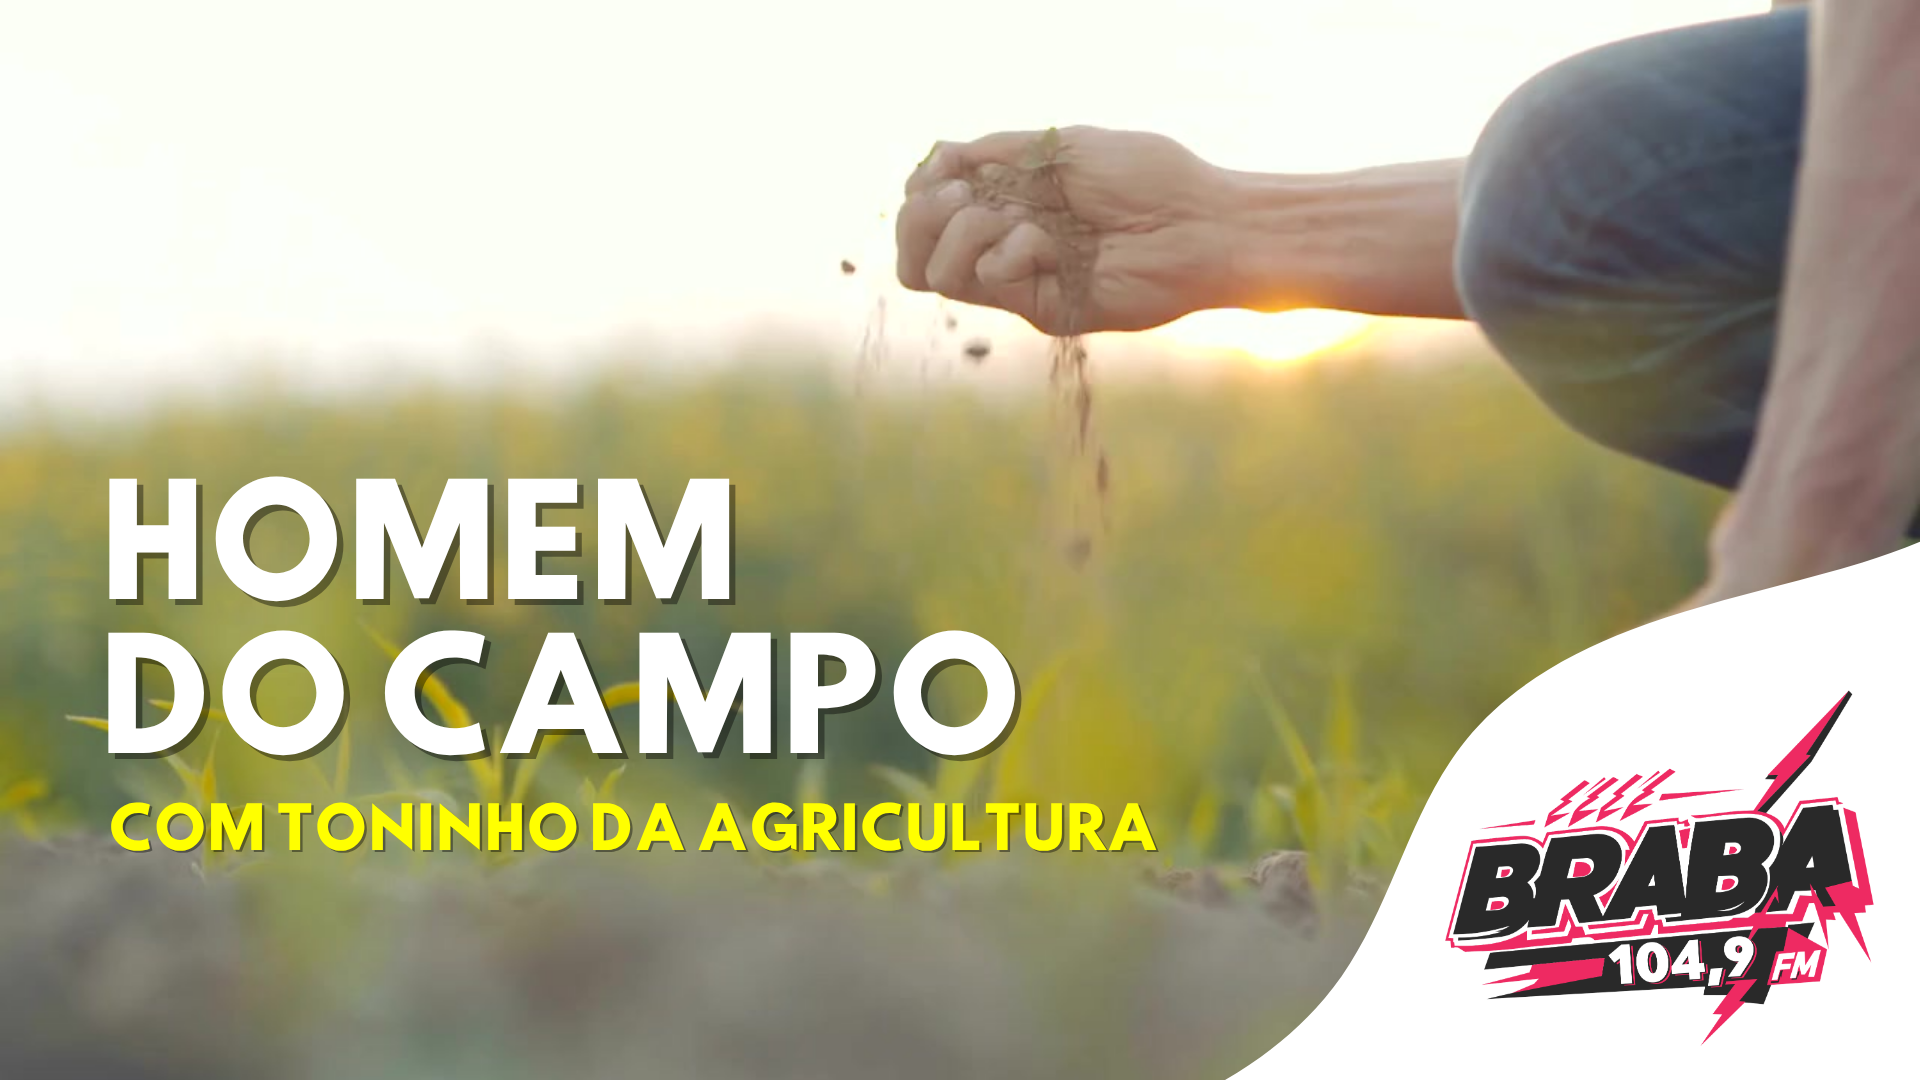
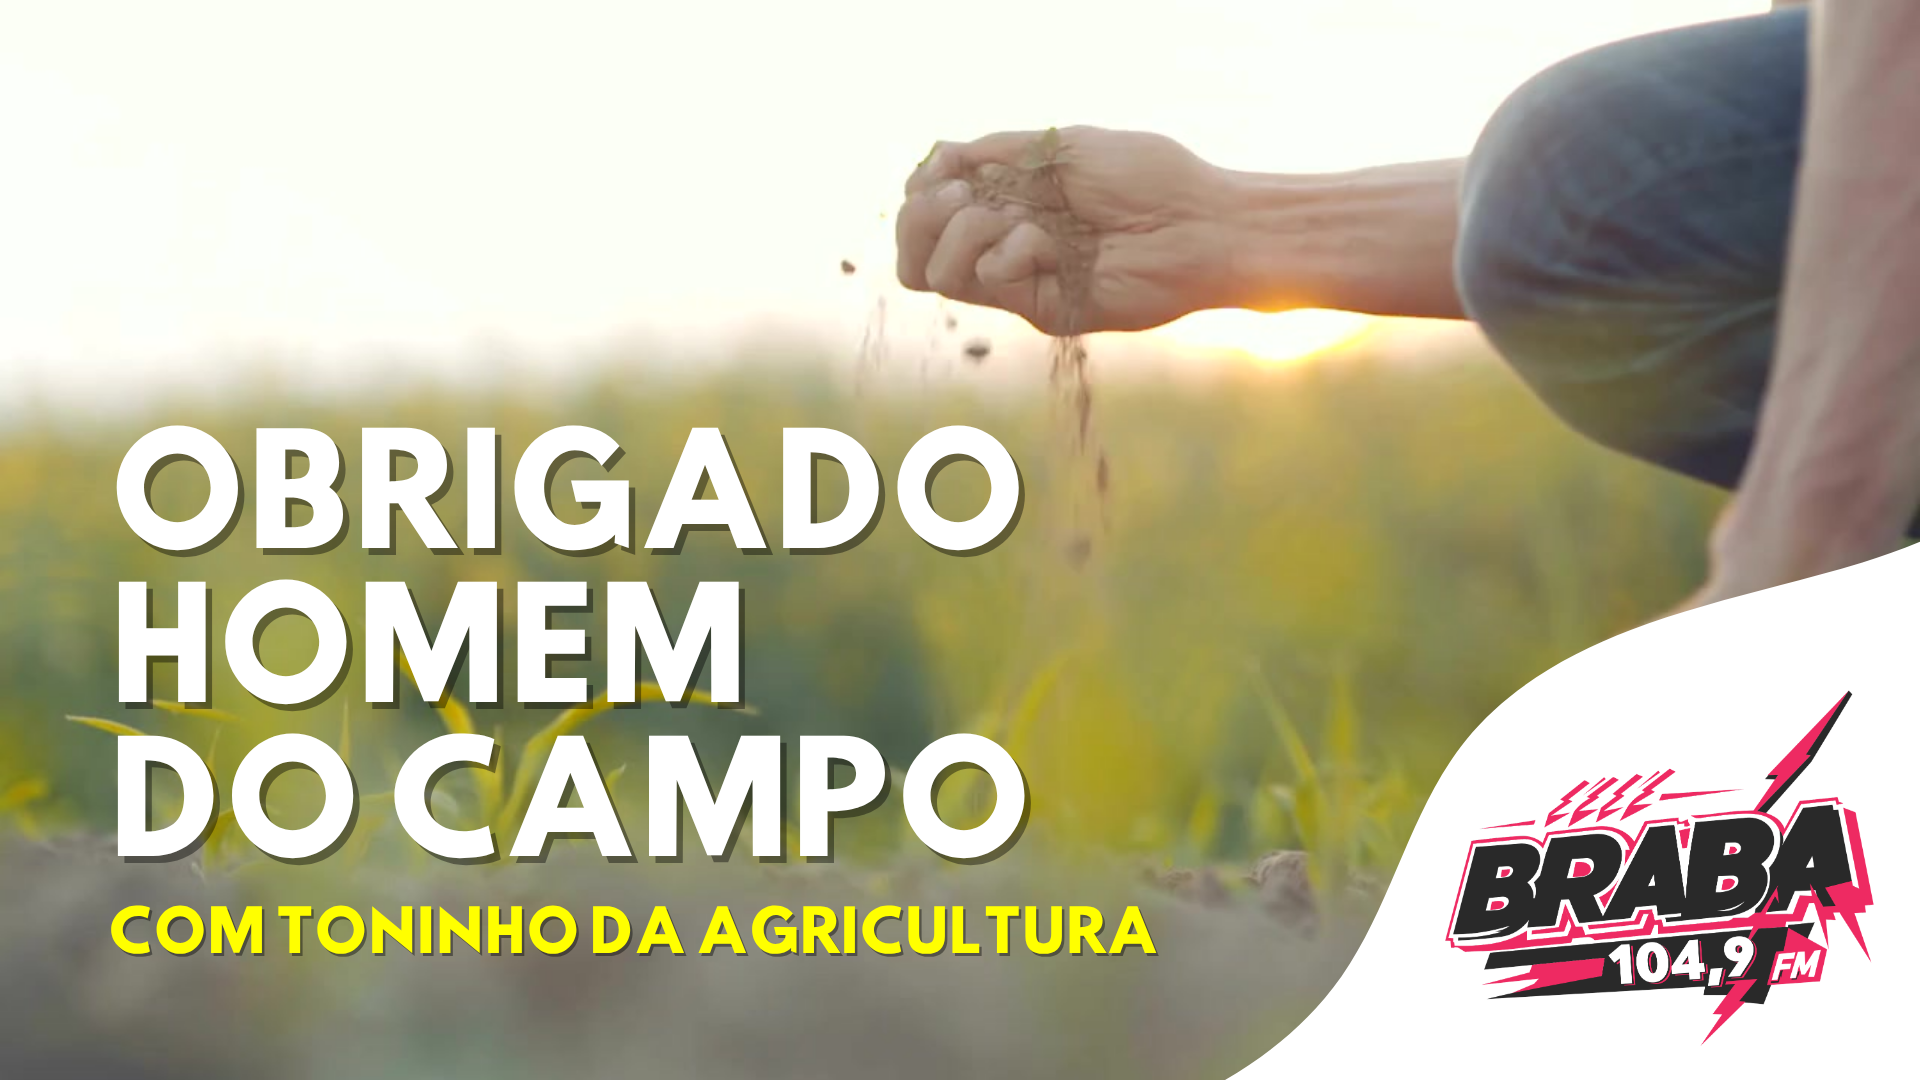
fix: refatore footer and add new infos

Changed region(s): [[0.0312, 0.3972, 0.625, 0.8861]]

diff --git a/src/pages/ContactPage.tsx b/src/pages/ContactPage.tsx
@@ -6,8 +6,8 @@ import { Button } from "@/components/ui/button";
 import { Form, FormControl, FormDescription, FormField, FormItem, FormLabel, FormMessage } from "@/components/ui/form";
 import { Input } from "@/components/ui/input";
 import { Textarea } from "@/components/ui/textarea";
-import { toast } from "@/hooks/use-toast"; 
-import { ContactFormData } from "@/lib/types"; 
+import { toast } from "@/hooks/use-toast";
+import { ContactFormData } from "@/lib/types";
 import {  Send, User, Mail, Phone, MessageSquare, MapPin, Clock, Radio, ChevronRight, Users, Heart, Building } from "lucide-react";
 
 // Esquema de validação do formulário com Zod
@@ -81,7 +81,7 @@ export function ContactPage() {
       icon: <Phone size={24} />,
       title: 'Telefone',
       description: 'Ligue diretamente para nossa central',
-      value: '(11) 3333-3333',
+      value: '(15) 3191-2855',
       action: 'Fazer ligação',
       color: 'bg-blue-500' 
     },
@@ -132,7 +132,7 @@ export function ContactPage() {
     {
       id: 4,
       question: 'Qual o horário de funcionamento da rádio?',
-      answer: 'Nossa programação é 24h, mas o atendimento presencial é de segunda a sexta das 8h às 18h, e sábados das 9h às 13h.'
+      answer: 'Nossa programação é 24h, mas o atendimento presencial é de segunda a sexta das 8h às 18h.'
     }
   ];
 
@@ -179,8 +179,8 @@ export function ContactPage() {
             <div className="bg-card rounded-xl shadow-lg p-6 md:p-8 hover:shadow-2xl transition-shadow duration-300">
               <div className="flex flex-col sm:flex-row items-start sm:items-center mb-6">
                 <div className="flex items-center mb-2 sm:mb-0">
-                    <MessageSquare size={24} className="text-[#F63A9C] mr-2" />
-                    <h3 className="text-xl sm:text-2xl font-bold text-gray-800 dark:text-white">Formulário de Contato</h3>
+                  <MessageSquare size={24} className="text-[#F63A9C] mr-2" />
+                  <h3 className="text-xl sm:text-2xl font-bold text-gray-800 dark:text-white">Formulário de Contato</h3>
                 </div>
                 <span className="ml-0 sm:ml-3 text-xs sm:text-sm bg-[#F63A9C] text-white px-2 py-1 rounded">
                   RESPOSTA EM 24H
@@ -210,7 +210,7 @@ export function ContactPage() {
                     )}
                   />
 
-                  <div className="grid grid-cols-1 md:grid-cols-2 gap-4 md:gap-6"> 
+                  <div className="grid grid-cols-1 md:grid-cols-2 gap-4 md:gap-6">
                     <FormField
                       control={form.control}
                       name="email"
@@ -320,11 +320,11 @@ export function ContactPage() {
                   <Building size={20} className="text-[#F63A9C] mr-3 mt-1" />
                   <div>
                     <h4 className="font-medium text-gray-800 dark:text-white text-base">Endereço</h4>
-                    <p className="text-gray-600 dark:text-gray-300 text-sm">Rua do Cruzeiro, 70<br />Centro - Capela do Alto, SP<br />CEP: 18195-078</p>
+                    <p className="text-gray-600 dark:text-gray-300 text-sm">Rua São Francisco, 7<br />Centro - Capela do Alto, SP<br />CEP: 18195-078</p>
                   </div>
                 </div>
                 {/* Rubens, ajuste o src do iframe do mapa aqui! */}
-                <div className="relative overflow-hidden w-full h-48 sm:h-64 rounded-lg"> 
+                <div className="relative overflow-hidden w-full h-48 sm:h-64 rounded-lg">
                   <iframe
                     title="Mapa interativo"
                     width="100%"
@@ -332,7 +332,7 @@ export function ContactPage() {
                     style={{ border: 0 }}
                     loading="lazy"
                     allowFullScreen
-                    src="https://www.google.com/maps/embed?pb=!1m18!1m12!1m3!1d3658.0773600000003!2d-47.88607102439002!3d-23.528405059695843!2m3!1f0!2f0!3f0!3m2!1i1024!2i768!4f13.1!3m3!1m2!1s0x94cf54805e5d36e7%3A0x6b4c10398b1e4f40!2sR.%20do%20Cruzeiro%2C%2070%20-%20Centro%2C%20Capela%20do%20Alto%20-%20SP%2C%2018195-000!5e0!3m2!1spt-BR!2sbr!4v1719438012345!5m2!1spt-BR!2sbr"
+                    src="https://www.google.com/maps/embed?pb=!1m18!1m12!1m3!1d3658.0773600000003!2d-47.88607102439002!3d-23.528405059695843!2m3!1f0!2f0!3f0!3m2!1i1024!2i768!4f13.1!3m3!1m2!1s0x94cf54805e5d36e7%3A0x6b4c10398b1e4f40!2sR.%20Sao%20Francisco%2C%207%20-%20Centro%2C%20Capela%20do%20Alto%20-%20SP%2C%2018195-000!5e0!3m2!1spt-BR!2sbr!4v1719438012345!5m2!1spt-BR!2sbr"
                   ></iframe>
                 </div>
               </div>
@@ -391,73 +391,73 @@ export function ContactPage() {
                 </Button>
               </div>
             ))}
-          </div>
         </div>
+    </div>
       </section>
 
       {/* FAQ Section */}
       <section className="py-12 md:py-16 bg-background transition-colors duration-500">
-        <div className="container mx-auto px-4">
-          <div className="text-center mb-8 md:mb-10">
-            <h2 className="text-2xl sm:text-3xl md:text-4xl font-bold mb-2 text-gray-800 dark:text-white">DÚVIDAS FREQUENTES</h2>
-            <p className="text-base sm:text-xl text-gray-600 dark:text-gray-400">Respostas para as perguntas mais comuns</p>
-          </div>
-
-          <div className="max-w-3xl mx-auto">
-            {faqs.map((faq) => (
-              <div
-                key={faq.id}
-                className="bg-card rounded-lg shadow-md mb-4 overflow-hidden hover:shadow-lg transition-shadow duration-300 border border-gray-100 dark:border-gray-700"
-              >
-                <button
-                  className="w-full p-4 sm:p-6 text-left flex items-center justify-between hover:bg-gray-50 dark:hover:bg-gray-700 transition-colors duration-200 text-gray-800 dark:text-white"
-                  onClick={() => setExpandedFAQ(expandedFAQ === faq.id ? null : faq.id)}
-                >
-                  <h3 className="font-bold text-base sm:text-lg">{faq.question}</h3>
-                  <ChevronRight
-                    size={20}
-                    className={`text-[#F63A9C] transform transition-transform duration-200 ${expandedFAQ === faq.id ? 'rotate-90' : ''}`}
-                  />
-                </button>
-
-                {expandedFAQ === faq.id && (
-                  <div className="px-4 pb-4 sm:px-6 sm:pb-6">
-                    <p className="text-gray-700 dark:text-gray-300 text-sm sm:text-base">{faq.answer}</p>
-                  </div>
-                )}
-              </div>
-            ))}
-          </div>
+      <div className="container mx-auto px-4">
+        <div className="text-center mb-8 md:mb-10">
+          <h2 className="text-2xl sm:text-3xl md:text-4xl font-bold mb-2 text-gray-800 dark:text-white">DÚVIDAS FREQUENTES</h2>
+          <p className="text-base sm:text-xl text-gray-600 dark:text-gray-400">Respostas para as perguntas mais comuns</p>
         </div>
+
+        <div className="max-w-3xl mx-auto">
+          {faqs.map((faq) => (
+            <div
+              key={faq.id}
+              className="bg-card rounded-lg shadow-md mb-4 overflow-hidden hover:shadow-lg transition-shadow duration-300 border border-gray-100 dark:border-gray-700"
+            >
+              <button
+                className="w-full p-4 sm:p-6 text-left flex items-center justify-between hover:bg-gray-50 dark:hover:bg-gray-700 transition-colors duration-200 text-gray-800 dark:text-white"
+                onClick={() => setExpandedFAQ(expandedFAQ === faq.id ? null : faq.id)}
+              >
+                <h3 className="font-bold text-base sm:text-lg">{faq.question}</h3>
+                <ChevronRight
+                  size={20}
+                  className={`text-[#F63A9C] transform transition-transform duration-200 ${expandedFAQ === faq.id ? 'rotate-90' : ''}`}
+                />
+              </button>
+
+              {expandedFAQ === faq.id && (
+                <div className="px-4 pb-4 sm:px-6 sm:pb-6">
+                  <p className="text-gray-700 dark:text-gray-300 text-sm sm:text-base">{faq.answer}</p>
+                </div>
+              )}
+            </div>
+          ))}
+        </div>
+      </div>
       </section>
 
       {/* Final CTA */}
       <section className="py-12 md:py-16 bg-gradient-to-br from-[#F63A9C] to-[#FF2C69] text-white">
-        <div className="container mx-auto px-4 text-center">
-          <h2 className="text-2xl sm:text-3xl md:text-4xl font-bold mb-4">AINDA TEM DÚVIDAS?</h2>
-          <p className="text-base sm:text-xl mb-6 md:mb-8">Nossa equipe está sempre pronta para ajudar você!</p>
+      <div className="container mx-auto px-4 text-center">
+        <h2 className="text-2xl sm:text-3xl md:text-4xl font-bold mb-4">AINDA TEM DÚVIDAS?</h2>
+        <p className="text-base sm:text-xl mb-6 md:mb-8">Nossa equipe está sempre pronta para ajudar você!</p>
 
-          <div className="flex flex-col sm:flex-row items-center justify-center gap-3 sm:gap-4">
-            <a
-              href="https://wa.me/551531912855"
-              target="_blank"
-              rel="noopener noreferrer"
-              className="flex items-center bg-white text-[#F63A9C] px-5 py-2 sm:px-6 sm:py-3 rounded-lg font-bold hover:bg-gray-100 transition-colors duration-200 text-sm sm:text-base"
-            >
-              <Phone size={18} className="mr-2" />
-              Falar no WhatsApp
-            </a>
+        <div className="flex flex-col sm:flex-row items-center justify-center gap-3 sm:gap-4">
+          <a
+            href="https://wa.me/551531912855"
+            target="_blank"
+            rel="noopener noreferrer"
+            className="flex items-center bg-white text-[#F63A9C] px-5 py-2 sm:px-6 sm:py-3 rounded-lg font-bold hover:bg-gray-100 transition-colors duration-200 text-sm sm:text-base"
+          >
+            <Phone size={18} className="mr-2" />
+            Falar no WhatsApp
+          </a>
 
-            <a
-               href="https://wa.me/551531912855"
+          <a
+            href="https://wa.me/551531912855"
 
-              className="flex items-center bg-transparent border-2 border-white text-white px-5 py-2 sm:px-6 sm:py-3 rounded-lg font-bold hover:bg-white hover:text-[#F63A9C] transition-colors duration-200 text-sm sm:text-base"
-            >
-              <Phone size={18} className="mr-2" />
-              Ligar Agora
-            </a>
-          </div>
+            className="flex items-center bg-transparent border-2 border-white text-white px-5 py-2 sm:px-6 sm:py-3 rounded-lg font-bold hover:bg-white hover:text-[#F63A9C] transition-colors duration-200 text-sm sm:text-base"
+          >
+            <Phone size={18} className="mr-2" />
+            Ligar Agora
+          </a>
         </div>
+      </div>
       </section>
     </div>
   );

diff --git a/src/components/Footer.tsx b/src/components/Footer.tsx
@@ -46,7 +46,7 @@ export function Footer() {
                 <span className="sr-only">Twitter</span>
               </a>
               <a
-                href="https://instagram.com"
+                href="https://instagram.com/radiobraba"
                 target="_blank"
                 rel="noopener noreferrer"
                 className="p-2 bg-pink-600 rounded-full hover:bg-pink-700 transition-colors"
@@ -55,7 +55,7 @@ export function Footer() {
                 <span className="sr-only">Instagram</span>
               </a>
               <a
-                href="https://youtube.com"
+                href="https://youtube.com/@RadioBraba"
                 target="_blank"
                 rel="noopener noreferrer"
                 className="p-2 bg-pink-600 rounded-full hover:bg-pink-700 transition-colors"
@@ -144,7 +144,7 @@ export function Footer() {
                   to="/programacao"
                   className="flex items-center gap-2 text-popover-foreground hover:text-pink-600 transition-colors font-[450]"
                 >
-                  Manhã Animada
+                  Manhã Sertaneja
                   <ExternalLink size={15} className="text-popover-foreground hover:text-pink-600 transition-colors font-[450]" />
                 </Link>
               </li>
@@ -153,7 +153,7 @@ export function Footer() {
                   to="/programacao"
                   className="flex items-center gap-2 text-popover-foreground hover:text-pink-600 transition-colors font-[450]"
                 >
-                  Tarde Brasileira
+                  Hora do Rush
                   <ExternalLink size={15} className="text-popover-foreground hover:text-pink-600 transition-colors font-[450]" />
                 </Link>
               </li>
@@ -162,7 +162,7 @@ export function Footer() {
                   to="/programacao"
                   className="flex items-center gap-2 text-popover-foreground hover:text-pink-600 transition-colors font-[450]"
                 >
-                  Show da Noite
+                  Na Xinxa Xou
                   <ExternalLink size={15} className="text-popover-foreground hover:text-pink-600 transition-colors font-[450]" />
                 </Link>
               </li>
@@ -171,7 +171,7 @@ export function Footer() {
                   to="/programacao"
                   className="flex items-center gap-2 text-popover-foreground hover:text-pink-600 transition-colors font-[450]"
                 >
-                  Sexta Eletrônica
+                  As Brabas do Momento
                   <ExternalLink size={15} className="text-popover-foreground hover:text-pink-600 transition-colors font-[450]" />
                 </Link>
               </li>
@@ -180,7 +180,7 @@ export function Footer() {
                   to="/programacao"
                   className="flex items-center gap-2 text-popover-foreground hover:text-pink-600 transition-colors font-[450]"
                 >
-                  Domingo Relaxante
+                  Obrigado Homem do Campo
                   <ExternalLink size={15} className="text-popover-foreground hover:text-pink-600 transition-colors font-[450]" />
                 </Link>
               </li>
@@ -194,7 +194,7 @@ export function Footer() {
               <li className="flex items-start">
                 <MapPin size={18} className="text-pink-600 mr-2 mt-0.5" />
                 <span className="text-popover-foreground">
-                  Rua do Cruzeiro, 70<br />
+                  Rua São Francisco, 7<br />
                   Capela do Alto - SP<br />
                   Brasil
                 </span>
